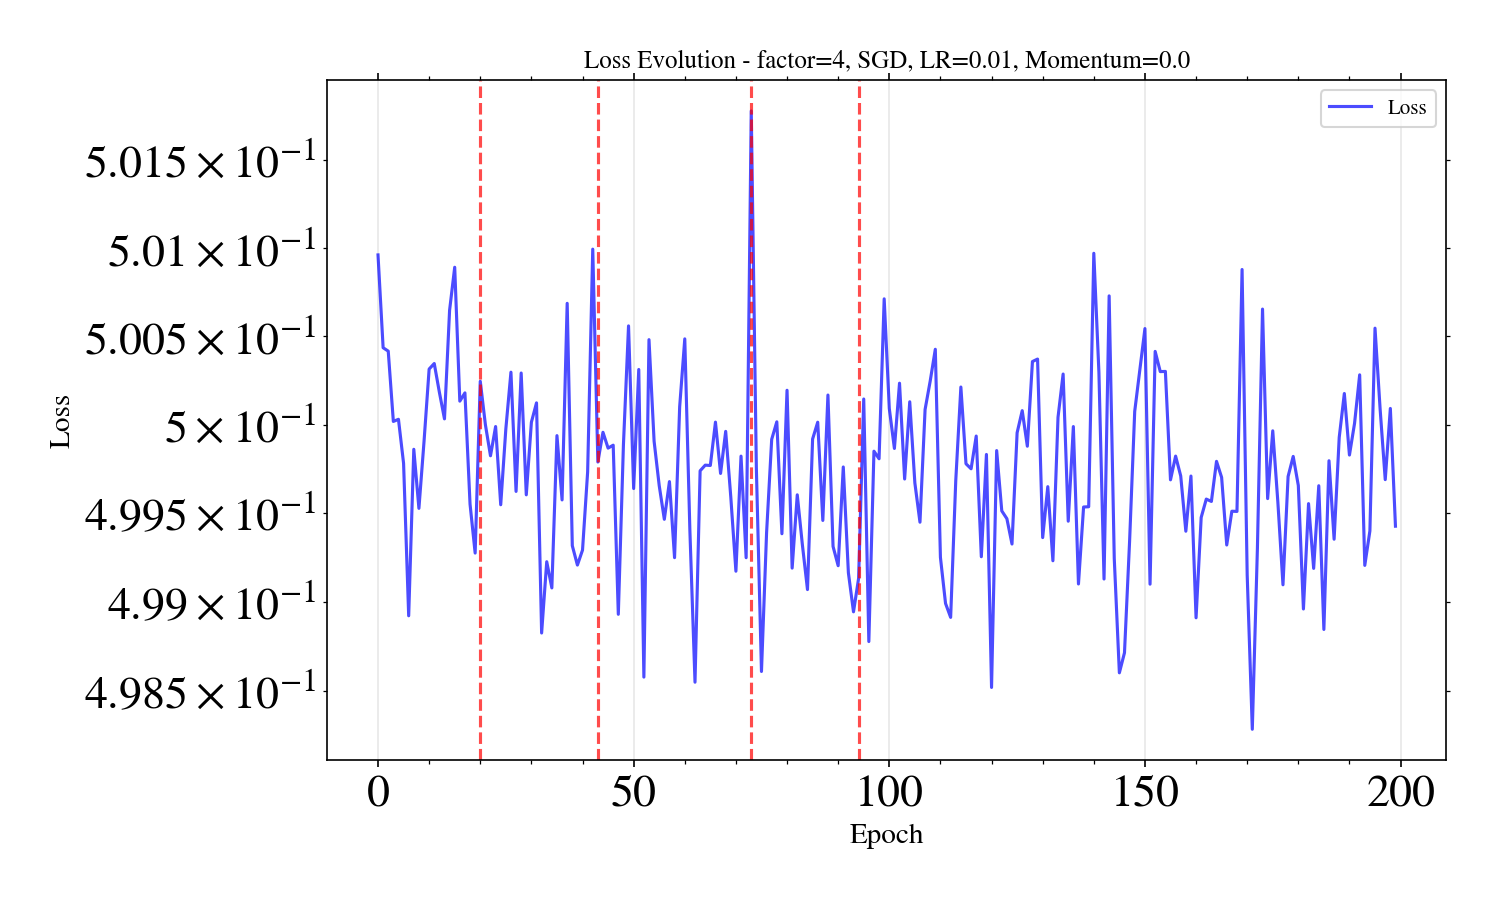
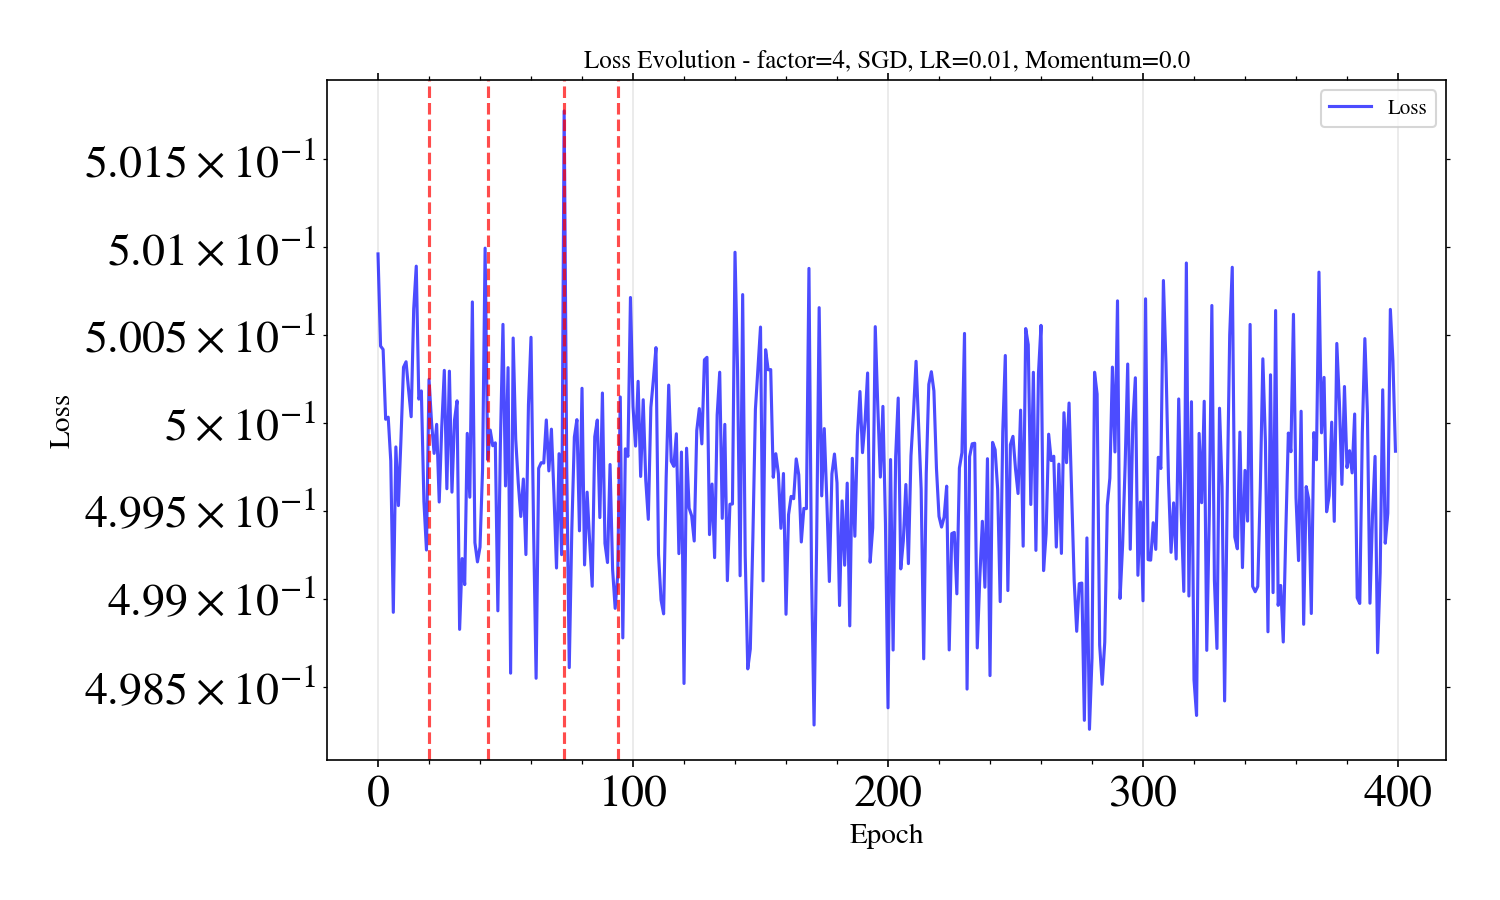
some adam training are fine, before sxitching to sgd

diff --git a/experiments/table/tune_lr_decay_L2.py b/experiments/table/tune_lr_decay_L2.py
@@ -1,8 +1,8 @@
 #!/usr/bin/env python3
 """
 Tune learning rate decay for L=2 with cos(2*factor*pi*x)
-Test over 500 epochs to find optimal LR decay schedule
-Batch size = 4*factor (linear in frequency for Fourier approximation)
+Test over 10000 epochs to find optimal LR decay schedule
+Batch size = 4*factor*10 (linear in frequency for Fourier approximation)
 Runs configurations in parallel on GPU
 """
 import torch
@@ -46,6 +46,49 @@ plt.rcParams['xtick.top'] = True
 def target_function(x, factor):
     """Simple cosine function: cos(2*factor*pi*x)"""
     return np.cos(2 * factor * np.pi * x)
+
+def plot_prediction_vs_baseline(model, x_test_plot, y_test_plot, x_train_plot, y_train_plot, 
+                                 epoch, new_lr, output_dir, factor, current_optimizer_type, lr_config, sgd_momentum=None):
+    """Plot prediction vs baseline at LR reduction moment"""
+    model.eval()
+    with torch.no_grad():
+        x_test_tensor = torch.tensor(x_test_plot.reshape([-1, 1]), device=next(model.parameters()).device, dtype=torch.float32)
+        y_pred_test = model(x_test_tensor).cpu().numpy().flatten()
+        
+        x_train_tensor = torch.tensor(x_train_plot.reshape([-1, 1]), device=next(model.parameters()).device, dtype=torch.float32)
+        y_pred_train = model(x_train_tensor).cpu().numpy().flatten()
+    
+    fig, ax = plt.subplots(1, 1, figsize=(12, 8))
+    
+    # Plot baseline (ground truth)
+    ax.plot(x_test_plot, y_test_plot, 'b-', linewidth=2, alpha=0.7, label='Baseline (ground truth)')
+    
+    # Plot prediction
+    ax.plot(x_test_plot, y_pred_test, 'r--', linewidth=2, alpha=0.7, label='Prediction')
+    
+    # Plot training points
+    ax.scatter(x_train_plot, y_train_plot, c='green', s=20, alpha=0.5, label='Training points', zorder=5)
+    ax.scatter(x_train_plot, y_pred_train, c='orange', s=20, alpha=0.5, label='Prediction at train points', zorder=5)
+    
+    ax.set_xlabel('x', fontsize=16)
+    ax.set_ylabel('y', fontsize=16)
+    title = f'Prediction vs Baseline - Epoch {epoch}, LR={new_lr:.2e}\n'
+    title += f'factor={factor}, {current_optimizer_type}'
+    if current_optimizer_type == 'SGD':
+        momentum = sgd_momentum if sgd_momentum is not None else lr_config.get("momentum", 0.9)
+        title += f', Momentum={momentum}'
+    elif current_optimizer_type == 'Adam':
+        betas = lr_config.get('betas', (0.9, 0.999))
+        title += f', Betas=({betas[0]}, {betas[1]})'
+    ax.set_title(title, fontsize=14)
+    ax.legend(fontsize=12)
+    ax.grid(True, alpha=0.3)
+    
+    plt.tight_layout()
+    plot_filename = f"prediction_vs_baseline_epoch{epoch}_lr{new_lr:.2e}.png"
+    plt.savefig(output_dir / plot_filename, dpi=150)
+    plt.close()
+    print(f"   💾 Saved prediction plot: {plot_filename}")
 
 def train_one_config_wrapper(args):
     """Wrapper for multiprocessing - unpacks arguments"""
@@ -118,10 +161,16 @@ def train_one_config(factor, lr_config, output_dir):
     y_test_plot = y_test.copy()
     
     # we set up optimizer based on config
+    # Start with Adam, switch to SGD when loss < 1e-3
     optimizer_type = lr_config.get('optimizer_type', 'Adam')
+    use_adam_first = (optimizer_type == 'Adam')
+    switched_to_sgd = False
+    sgd_momentum = lr_config.get('momentum', 0.9)  # Default momentum for SGD switch
+    
     if optimizer_type == 'SGD':
         momentum = lr_config.get('momentum', 0.9)
         optimizer = optim.SGD(model.parameters(), lr=lr_init, momentum=momentum)
+        use_adam_first = False
     elif optimizer_type == 'Adam':
         betas = lr_config.get('betas', (0.9, 0.999))
         optimizer = optim.Adam(model.parameters(), lr=lr_init, betas=betas)
@@ -220,6 +269,28 @@ def train_one_config(factor, lr_config, output_dir):
         
         all_losses.append(epoch_loss)
         
+        # Switch from Adam to SGD when loss < 1e-3
+        if use_adam_first and not switched_to_sgd and epoch_loss < 1e-3:
+            print(f"\n🔄 Switching from Adam to SGD at epoch {epoch} (loss={epoch_loss:.6e} < 1e-3)")
+            # Get current learning rate
+            current_lr = optimizer.param_groups[0]['lr']
+            # Create new SGD optimizer with same LR
+            optimizer = optim.SGD(model.parameters(), lr=current_lr, momentum=sgd_momentum)
+            switched_to_sgd = True
+            # Update scheduler if it exists (need to recreate with new optimizer)
+            if scheduler is not None:
+                if scheduler_type == 'StepLR':
+                    scheduler = StepLR(optimizer, step_size=scheduler_params['step_size'], gamma=scheduler_params['gamma'])
+                elif scheduler_type == 'ExponentialLR':
+                    scheduler = ExponentialLR(optimizer, gamma=scheduler_params['gamma'])
+                elif scheduler_type == 'LinearLR':
+                    start_factor = scheduler_params.get('start_factor', 1.0)
+                    end_factor = scheduler_params.get('end_factor', 0.0)
+                    total_iters = scheduler_params.get('total_iters', num_epochs)
+                    scheduler = LinearLR(optimizer, start_factor=start_factor, end_factor=end_factor, total_iters=total_iters)
+            # Update optimizer_type for logging
+            optimizer_type = 'SGD'
+        
         # Handle adaptive stagnation scheduler
         if adaptive_scheduler is not None:
             current_lr_index = adaptive_scheduler['current_lr_index']
@@ -251,11 +322,19 @@ def train_one_config(factor, lr_config, output_dir):
                         adaptive_scheduler['lr_reduction_epochs'] = []
                     adaptive_scheduler['lr_reduction_epochs'].append(epoch)
                     print(f"\n📉 Loss stagnating at epoch {epoch}: reducing LR to {new_lr:.2e}")
+                    
+                    # Plot prediction vs baseline at LR reduction moment
+                    current_opt_type = 'SGD' if switched_to_sgd else 'Adam'
+                    plot_prediction_vs_baseline(
+                        model, x_test_plot, y_test_plot, x_train_plot, y_train_plot,
+                        epoch, new_lr, output_dir, factor, current_opt_type, lr_config, sgd_momentum
+                    )
         
         all_lrs.append(optimizer.param_groups[0]['lr'])
         
-        # we update tqdm with current loss
-        pbar.set_postfix({'loss': f'{epoch_loss:.6e}', 'lr': f'{all_lrs[-1]:.2e}'})
+        # we update tqdm with current loss and optimizer type
+        opt_name = 'SGD' if switched_to_sgd else 'Adam'
+        pbar.set_postfix({'loss': f'{epoch_loss:.6e}', 'lr': f'{all_lrs[-1]:.2e}', 'opt': opt_name})
         
         # plot loss curve every 200 epochs
         if (epoch + 1) % 200 == 0 or epoch == 0:
@@ -270,9 +349,13 @@ def train_one_config(factor, lr_config, output_dir):
             
             ax.set_xlabel('Epoch', fontsize=14)
             ax.set_ylabel('Loss', fontsize=14)
-            title = f'Loss Evolution - factor={factor}, {optimizer_type}, LR={lr_init}'
-            if optimizer_type == 'SGD':
-                title += f', Momentum={lr_config.get("momentum", 0.9)}'
+            current_opt = 'SGD' if switched_to_sgd else 'Adam'
+            title = f'Loss Evolution - factor={factor}, {current_opt}, LR={lr_init}'
+            if switched_to_sgd:
+                title += f', Momentum={sgd_momentum}'
+            elif not switched_to_sgd:
+                betas = lr_config.get('betas', (0.9, 0.999))
+                title += f', Betas=({betas[0]}, {betas[1]})'
             ax.set_title(title, fontsize=12)
             ax.legend(fontsize=10)
             ax.grid(True, alpha=0.3)
@@ -314,14 +397,20 @@ def train_one_config(factor, lr_config, output_dir):
         for reduction_epoch in adaptive_scheduler['lr_reduction_epochs']:
             if reduction_epoch < len(all_losses):
                 ax1.axvline(x=reduction_epoch, color='r', linestyle='--', linewidth=1.5, alpha=0.7, label='LR reduction' if reduction_epoch == adaptive_scheduler['lr_reduction_epochs'][0] else '')
+    
     ax1.set_xlabel('Epoch', fontsize=18)
     ax1.set_ylabel('Loss', fontsize=18)
-    title = f'Loss Evolution - factor={factor}, {optimizer_type}'
+    title = f'Loss Evolution - factor={factor}, {final_optimizer_type}'
+    if switched_to_sgd:
+        title += ' (Adam→SGD)'
     if scheduler_type:
         title += f', {scheduler_type}'
     title += f'\nBatch size={batch_size}, LR init={lr_init}'
-    if optimizer_type == 'SGD':
-        title += f', Momentum={lr_config.get("momentum", 0.9)}'
+    if final_optimizer_type == 'SGD':
+        title += f', Momentum={sgd_momentum if switched_to_sgd else lr_config.get("momentum", 0.9)}'
+    elif not switched_to_sgd:
+        betas = lr_config.get('betas', (0.9, 0.999))
+        title += f', Betas=({betas[0]}, {betas[1]})'
     ax1.set_title(title, fontsize=16)
     ax1.legend(fontsize=12)
     ax1.grid(True, alpha=0.3)
@@ -362,6 +451,9 @@ def train_one_config(factor, lr_config, output_dir):
     if adaptive_scheduler is not None and 'lr_reduction_epochs' in adaptive_scheduler:
         lr_reduction_epochs = adaptive_scheduler['lr_reduction_epochs']
     
+    # Determine final optimizer type (Adam or switched to SGD)
+    final_optimizer_type = 'SGD' if switched_to_sgd else 'Adam'
+    
     # we save results
     results = {
         'factor': factor,
@@ -371,7 +463,9 @@ def train_one_config(factor, lr_config, output_dir):
         'num_epochs': num_epochs,
         'batch_size': batch_size,
         'lr_init': lr_init,
-        'optimizer_type': optimizer_type,
+        'optimizer_type': final_optimizer_type,
+        'switched_to_sgd': switched_to_sgd,
+        'sgd_momentum': sgd_momentum if switched_to_sgd else None,
         'scheduler_type': scheduler_type,
         'scheduler_params': scheduler_params,
         'momentum': lr_config.get('momentum', None),
@@ -405,7 +499,9 @@ def train_one_config(factor, lr_config, output_dir):
         'num_epochs': num_epochs,
         'batch_size': batch_size,
         'lr_init': lr_init,
-        'optimizer_type': optimizer_type,
+        'optimizer_type': final_optimizer_type,
+        'switched_to_sgd': switched_to_sgd,
+        'sgd_momentum': sgd_momentum if switched_to_sgd else None,
         'scheduler_type': scheduler_type,
         'scheduler_params': scheduler_params,
         'momentum': lr_config.get('momentum', None),
@@ -421,6 +517,9 @@ def train_one_config(factor, lr_config, output_dir):
     print(f"\n✅ Training completed in {training_time:.2f} seconds")
     print(f"   Min loss: {min_loss:.6e} at epoch {min_loss_epoch}")
     print(f"   Final loss: {all_losses[-1]:.6e}")
+    print(f"   Final optimizer: {final_optimizer_type}")
+    if switched_to_sgd:
+        print(f"   Switched to SGD at loss < 1e-3")
     print(f"   Oscillation CV: {cv:.4f}, Ratio: {oscillation_ratio:.2f}")
     
     return results
@@ -441,22 +540,18 @@ def main():
     lr_configs = []
     
     # Test with adaptive LR scheduler: starts at 1e-2, reduces when loss stagnates
-    # Momentum values: 0.0, 0.3, and 0.7
-    momentum_values = [0.0, 0.3, 0.7]
-    
-    # SGD with adaptive LR scheduler (starts at 1e-2, reduces on stagnation)
-    for momentum in momentum_values:
-        lr_configs.append({
-            'optimizer_type': 'SGD',
-            'lr_init': 0.01,  # Start at 1e-2
-            'momentum': momentum,
-            'scheduler_type': 'AdaptiveStagnation',  # Custom adaptive scheduler
-            'scheduler_params': {
-                'lr_sequence': [0.01, 0.005, 0.001, 0.0005, 0.0001],  # 1e-2, 5e-3, 1e-3, 5e-4, 1e-4
-                'window_size': 10,  # Compare last 10 vs previous 10
-                'min_epochs_before_reduce': 20  # Minimum epochs before checking stagnation
-            }
-        })
+    # Use Adam optimizer
+    lr_configs.append({
+        'optimizer_type': 'Adam',
+        'lr_init': 0.01,  # Start at 1e-2
+        'betas': (0.9, 0.999),  # Default Adam betas
+        'scheduler_type': 'AdaptiveStagnation',  # Custom adaptive scheduler
+        'scheduler_params': {
+            'lr_sequence': [0.01, 0.005, 0.001, 0.0005, 0.0001],  # 1e-2, 5e-3, 1e-3, 5e-4, 1e-4
+            'window_size': 10,  # Compare last 10 vs previous 10
+            'min_epochs_before_reduce': 20  # Minimum epochs before checking stagnation
+        }
+    })
     
     print("="*80)
     print("OPTIMIZER & LR DECAY TUNING: L=2, cos(2*factor*pi*x)")
@@ -464,13 +559,13 @@ def main():
     print(f"Testing factors: {factors}")
     print(f"Testing ranks: {ranks_to_test}")
     print(f"Epochs per config: 10000")
-    print(f"Batch size: 4*factor (linear in frequency)")
+    print(f"Batch size: 4*factor*10 (linear in frequency)")
     print(f"Parameterization: NTK (fixWb=True)")
     print(f"Initialization: Uniform[-1,1] / sqrt(n)")
-    print(f"Optimizer: SGD only")
+    print(f"Optimizer: Adam")
     print(f"Initial LR: 0.01 (1e-2), adaptive reduction on stagnation")
     print(f"LR sequence: [1e-2, 5e-3, 1e-3, 5e-4, 1e-4]")
-    print(f"Momentum values: {momentum_values}")
+    print(f"Betas: (0.9, 0.999)")
     print(f"Adaptive scheduler: reduces LR when loss stagnates (mean of last 10 >= mean of previous 10)")
     print(f"Total configs to test: {len(lr_configs) * len(factors) * len(ranks_to_test)}")
     print(f"Output directory: {output_base}")
@@ -486,7 +581,8 @@ def main():
                     optimizer_name += f"_mom{lr_config.get('momentum', 0.9)}"
                 elif optimizer_name == 'Adam':
                     beta1 = lr_config.get('betas', (0.9, 0.999))[0]
-                    optimizer_name += f"_beta1{beta1}"
+                    beta2 = lr_config.get('betas', (0.9, 0.999))[1]
+                    optimizer_name += f"_beta1{beta1}_beta2{beta2}"
                 
                 if lr_config.get('scheduler_type') == 'StepLR':
                     scheduler_name = f"StepLR_step{lr_config['scheduler_params'].get('step_size', 'N/A')}_gamma{lr_config['scheduler_params'].get('gamma', 'N/A')}"
@@ -540,8 +636,8 @@ def main():
         'experiment': 'LR decay tuning: L=2, cos(2*factor*pi*x)',
         'factors_tested': factors,
         'num_layers': 2,
-        'num_epochs': 500,
-        'batch_size_formula': '4*factor',
+        'num_epochs': 10000,
+        'batch_size_formula': '4*factor*10',
         'lr_configs_tested': lr_configs,
         'results': all_results
     }
@@ -562,6 +658,7 @@ def main():
             'Rank': r['hidden_rank'],
             'Optimizer': r['optimizer_type'],
             'Momentum': r.get('momentum') if r['optimizer_type'] == 'SGD' else None,
+            'Betas': str(r.get('betas')) if r['optimizer_type'] == 'Adam' else None,
             'LR Init': r['lr_init'],
             'Scheduler': r.get('scheduler_type', 'None'),
             'Scheduler Params': str(r.get('scheduler_params', {})),
@@ -589,24 +686,19 @@ def main():
     
     # we analyze results by factor and optimizer
     print("\n" + "="*80)
-    print("ANALYSIS: Best Configs by Factor")
+    print("BEST CONFIGURATIONS BY RANK")
     print("="*80)
-    
-    for factor in factors:
-        for rank in ranks_to_test:
-            factor_rank_results = [r for r in all_results if r['factor'] == factor and r['hidden_rank'] == rank]
-            # sort by oscillation ratio (lower is better) and final loss
-            factor_rank_results.sort(key=lambda x: (x['oscillation_ratio'], x['final_loss']))
-            
-            print(f"\nFactor {factor}, Rank {rank} - Top 3 configs (lowest oscillation):")
-            for i, r in enumerate(factor_rank_results[:3]):
-                opt_info = f"{r['optimizer_type']}"
-                if r['optimizer_type'] == 'SGD':
-                    opt_info += f" (momentum={r.get('momentum', 0.9)})"
-                print(f"  {i+1}. {opt_info}, {r.get('scheduler_type', 'No scheduler')}")
-                print(f"     Final loss: {r['final_loss']:.6e}, Oscillation ratio: {r['oscillation_ratio']:.2f}, CV: {r['oscillation_cv']:.4f}")
-    
-    print(f"\nResults saved to: {output_base}")
+    for rank in ranks_to_test:
+        rank_results = [r for r in all_results if r['hidden_rank'] == rank]
+        if rank_results:
+            best = min(rank_results, key=lambda x: x['min_loss'])
+            opt_info = f"{best['optimizer_type']}"
+            if best['optimizer_type'] == 'SGD':
+                opt_info += f", momentum={best.get('momentum', 'N/A')}"
+            elif best['optimizer_type'] == 'Adam':
+                betas = best.get('betas', (0.9, 0.999))
+                opt_info += f", betas=({betas[0]}, {betas[1]})"
+            print(f"Rank {rank}: min_loss={best['min_loss']:.6e} with {opt_info}, {r.get('scheduler_type', 'No scheduler')}")
 
 if __name__ == "__main__":
     main()
